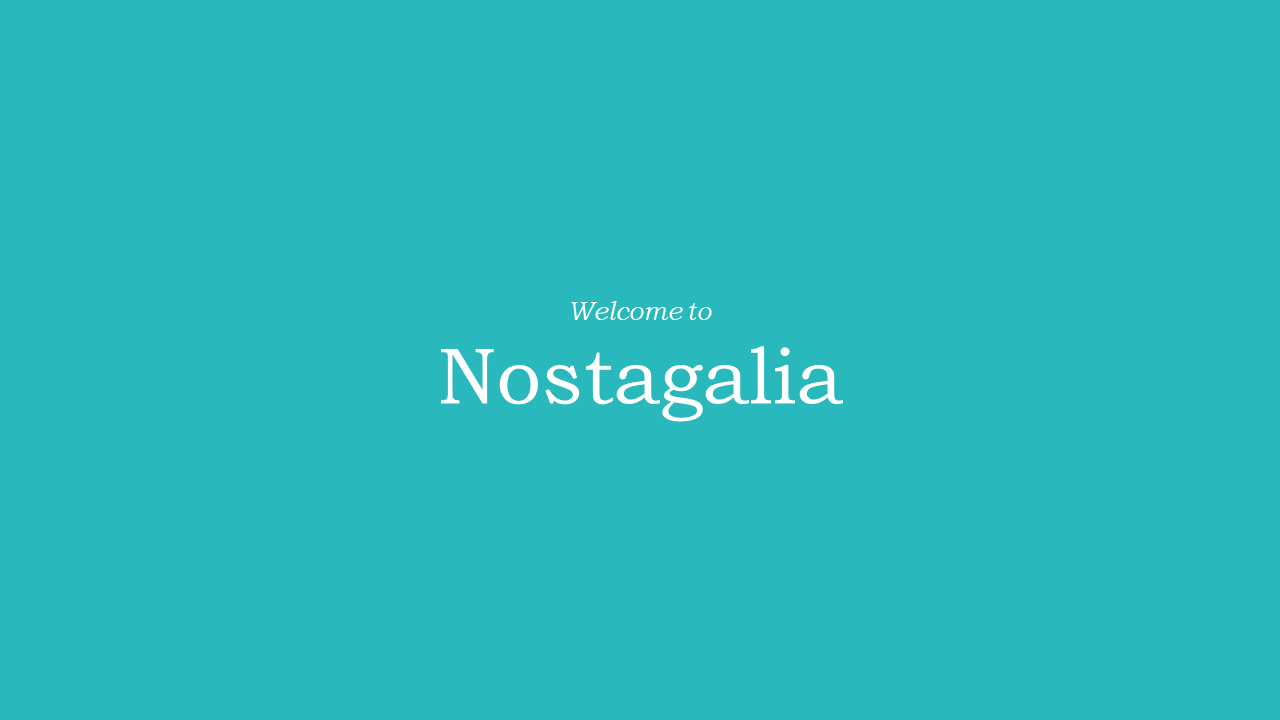
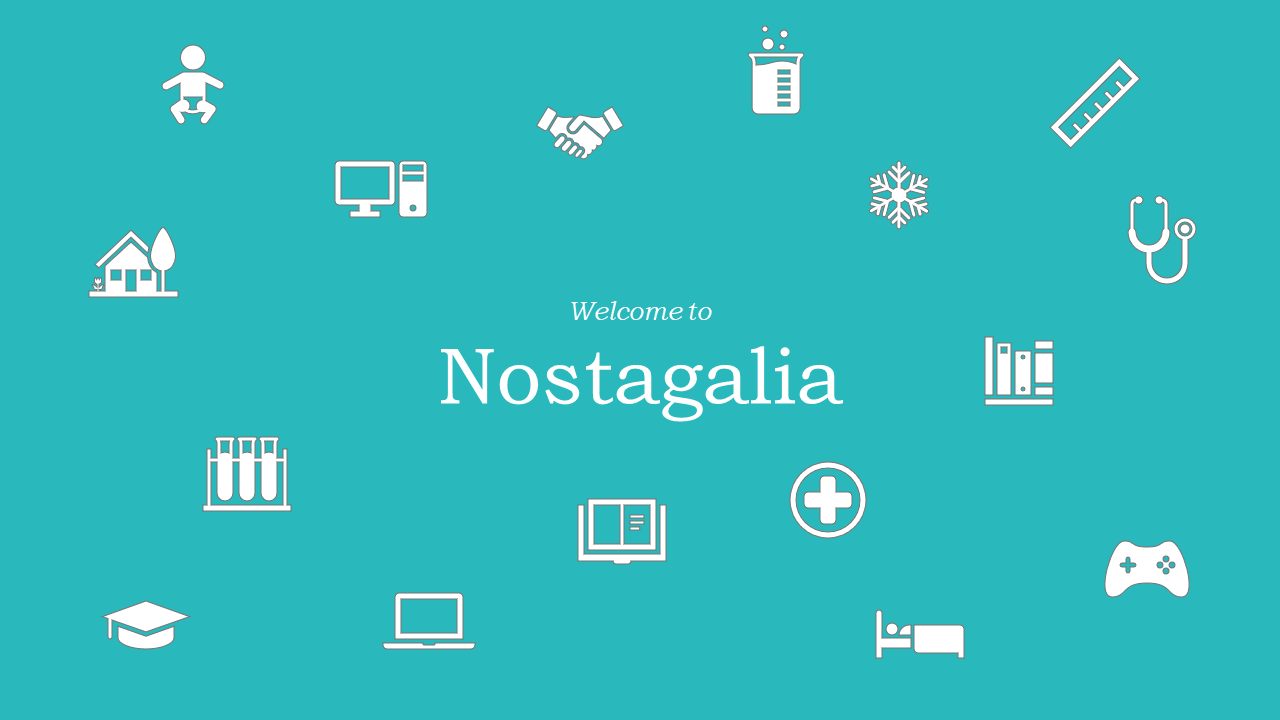
enhanced start page

diff --git a/index.html b/index.html
@@ -7,22 +7,20 @@
 </head>
 
 <body>
-    <div class="container start-page">
-        <div class="center font-20 font-italic">Welcome to</div>
-        <h1 class="center">Nostagalia</h1>
-        <div class="card left" style="background-color: #58ad58;">A simple trivia game made on the occasion of Reza's
-            wedding
-            dedicated to the members of the Secret Group.</div>
-        <img style="width: 50%;float: right;" src="images/group.jpg" alt="Group">
+    <div class="start-page center">
+        <img src="images/start-page-1.png" style="width: 90%;" />
     </div>
-    <div class="card-separator start-page">
+    <div class="start-page center">
+        <img src="images/start-page-2.png" style="width: 90%;" />
+    </div>
+    <div class="start-page card-separator">
         THERE ARE <strong id="question-count">100</strong> QUESTIONS
     </div>
-    <div class="container start-page">
-        <div class="card left" style="background-color: #3f6fa9;">Try to select (or guess) the right person that fits
-            the answer. Watch out though! If you answer incorrectly, you will be taunted.</div>
+    <div class="start-page center">
+        <img src="images/start-page-3.png" style="width: 90%;" />
+    </div>
+    <div class="start-page center">
         <img style="width: 100%;" src="images/tutorial.PNG" alt="Tutorial">
-        <div class="card right" style="background-color: #e55447;">Make sure to play with sound on!</div>
     </div>
     <div class="card-separator start-page">
         HAVE FUN

diff --git a/styles.css b/styles.css
@@ -39,6 +39,9 @@
     text-align: center;
     font-family: "Roboto", sans-serif;
     padding: 30px;
+    padding-top: 100px;
+    padding-bottom: 100px;
+    margin-bottom: 5px;
 }
 
 .card {
